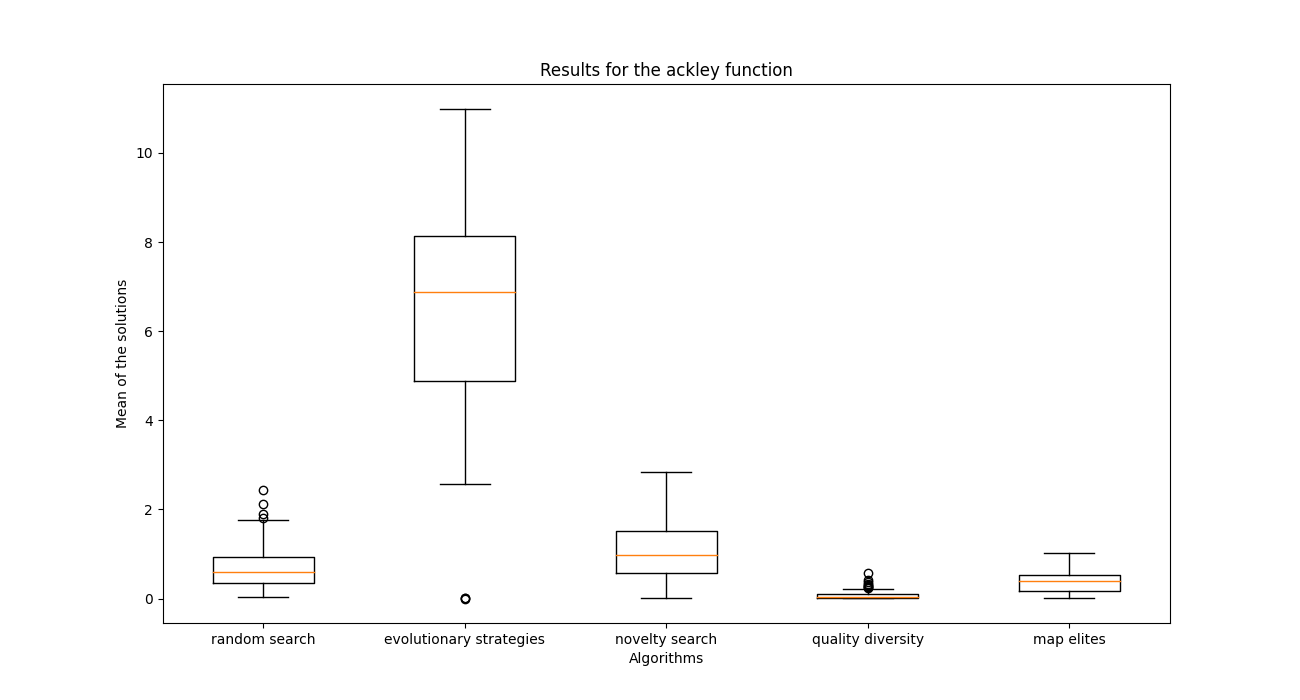
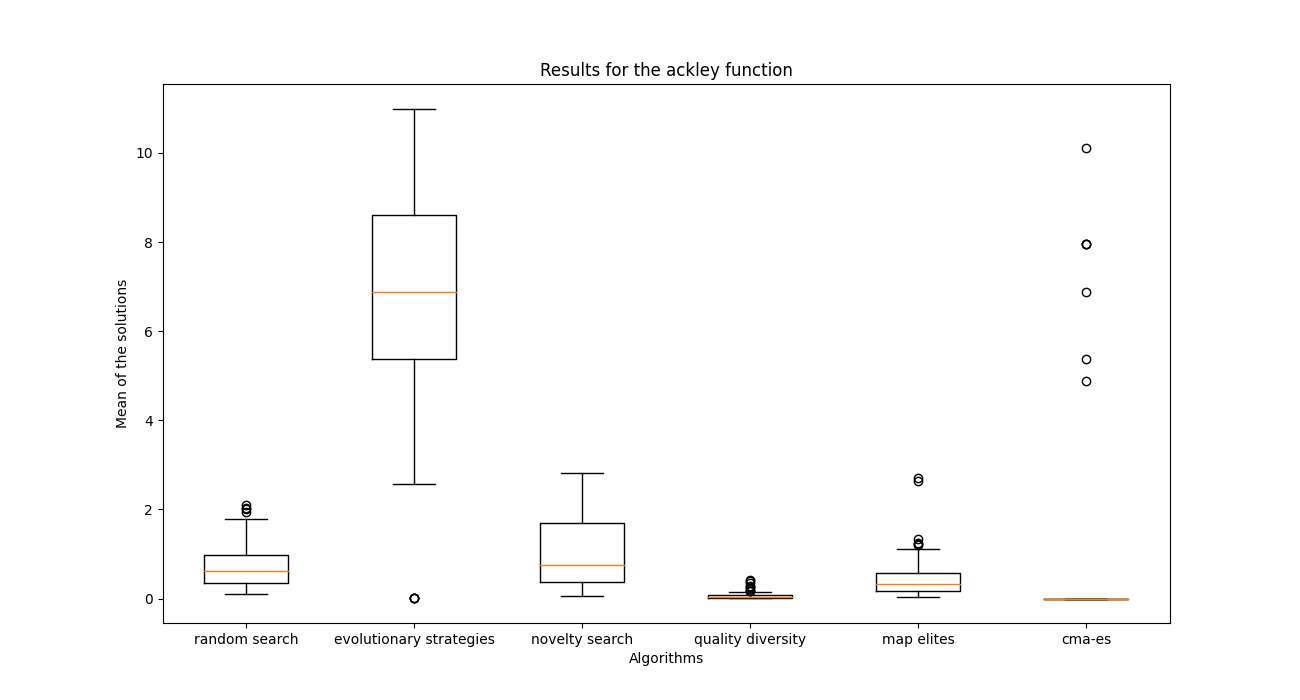
updated results

diff --git a/results_plot.py b/results_plot.py
@@ -11,7 +11,7 @@ import pandas as pd
 # In[3]:
 
 
-df = pd.read_csv('results.csv', index_col=0)
+df = pd.read_csv('results2.csv', index_col=0)
 
 
 # In[4]:
@@ -56,6 +56,7 @@ label_map = {
     'es': 'evolutionary strategies',
     'me': 'map elites',
     'qd': 'quality diversity',
+    'cmaes': 'cma-es'
 }
 
 
